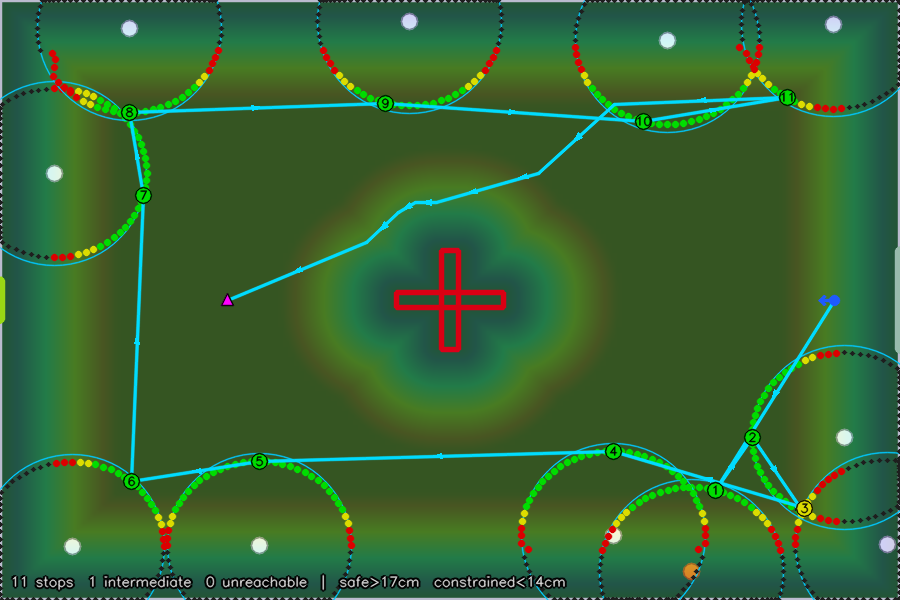
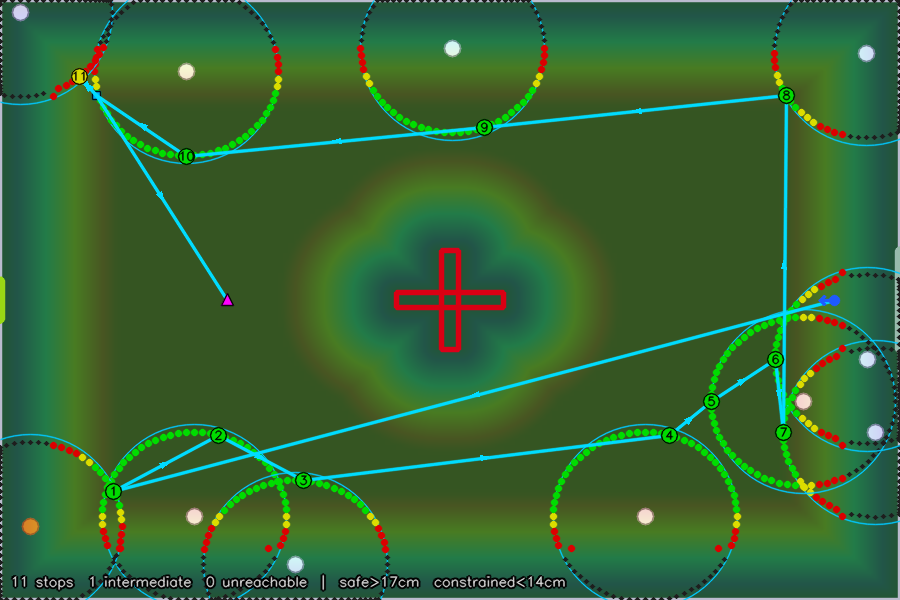
Fit check good

diff --git a/path/planner.py b/path/planner.py
@@ -12,8 +12,22 @@ from __future__ import annotations
 
 import heapq
 import math
+from enum import Enum
 
 import numpy as np
+
+
+class CompileStrategy(str, Enum):
+    """Path simplification strategy for the route compiler.
+
+    FULL    -- A* + Douglas-Peucker with collision-safe recursive splitting.
+               Preserves path shape; more intermediate waypoints.
+    MINIMAL -- A* + greedy farthest-visible-point simplification.
+               Fewest possible waypoints; better for stop-pivot-go guidance.
+    """
+
+    FULL = "full"
+    MINIMAL = "minimal"
 
 from config import FieldConfig
 from localization.models import RobotGeometry
@@ -249,6 +263,33 @@ def _safe_simplify(
     return left + right[1:]
 
 
+def _greedy_visibility_simplify(
+    blocked: np.ndarray,
+    path: list[tuple[int, int]],
+) -> list[tuple[int, int]]:
+    """Simplify a grid path by greedily jumping to the farthest visible point.
+
+    From the current point, scan backward from the end of the remaining path
+    to find the farthest point with a clear Bresenham line-of-sight.  Jump
+    there and repeat.  Produces the minimum number of waypoints where every
+    segment is guaranteed collision-free.
+    """
+    if len(path) <= 2:
+        return list(path)
+
+    result = [path[0]]
+    current = 0
+    while current < len(path) - 1:
+        farthest = current + 1
+        for j in range(len(path) - 1, current, -1):
+            if _bresenham_clear(blocked, *path[current], *path[j]):
+                farthest = j
+                break
+        result.append(path[farthest])
+        current = farthest
+    return result
+
+
 def _emit_astar_waypoints(
     blocked: np.ndarray,
     start_col: int,
@@ -257,6 +298,7 @@ def _emit_astar_waypoints(
     goal_row: int,
     field_height_cm: float,
     target_theta: float,
+    strategy: CompileStrategy = CompileStrategy.MINIMAL,
 ) -> list[RouteWaypoint]:
     """Run A*, simplify, and emit NAVIGATE waypoints between two grid cells.
 
@@ -267,8 +309,10 @@ def _emit_astar_waypoints(
     if grid_path is None or len(grid_path) <= 1:
         return []
 
-    # Simplify with collision-safe recursive splitting.
-    simplified = _safe_simplify(blocked, grid_path, epsilon=2.0)
+    if strategy == CompileStrategy.MINIMAL:
+        simplified = _greedy_visibility_simplify(blocked, grid_path)
+    else:
+        simplified = _safe_simplify(blocked, grid_path, epsilon=2.0)
 
     # Emit intermediate waypoints (skip first = current position, skip last
     # = the target itself which the caller emits with its own kind).
@@ -294,6 +338,7 @@ def compile_route(
     start_pose: HybridPose,
     half_width_cm: float,
     field_height_cm: float,
+    strategy: CompileStrategy = CompileStrategy.MINIMAL,
 ) -> RoutePlan:
     """Compile ordered route stops into a flat annotated waypoint sequence.
 
@@ -313,6 +358,9 @@ def compile_route(
         Robot half-width for body clearance (~9.75 cm).
     field_height_cm : float
         Field height for coordinate conversion.
+    strategy : CompileStrategy
+        Path simplification strategy.  MINIMAL (default) produces fewer
+        waypoints; FULL preserves more of the A* path shape.
 
     Returns
     -------
@@ -365,7 +413,7 @@ def compile_route(
             # Line blocked — insert A* detour waypoints.
             detour = _emit_astar_waypoints(
                 blocked, start_col, start_row, goal_col, goal_row,
-                field_height_cm, theta,
+                field_height_cm, theta, strategy=strategy,
             )
             waypoints.extend(detour)
 
@@ -394,6 +442,7 @@ def plan_route(
     geometry: RobotGeometry,
     field_config: FieldConfig,
     unload_position: tuple[float, float] | None = None,
+    compile_strategy: CompileStrategy = CompileStrategy.MINIMAL,
 ) -> RoutePlan:
     """Chain all three path layers to produce a ``RoutePlan``.
 
@@ -413,6 +462,8 @@ def plan_route(
         Field dimensions.
     unload_position : tuple[float, float] | None
         Staging position for unloading, or None to skip unload.
+    compile_strategy : CompileStrategy
+        Path simplification strategy passed to ``compile_route()``.
 
     Returns
     -------
@@ -446,6 +497,7 @@ def plan_route(
         start_pose=start_pose,
         half_width_cm=geometry.width_cm * 0.5,
         field_height_cm=field_config.height_cm,
+        strategy=compile_strategy,
     )
 
     return plan

diff --git a/path/tools/pickup_visualizer.py b/path/tools/pickup_visualizer.py
@@ -26,14 +26,14 @@ if str(REPO_ROOT) not in sys.path:
     sys.path.insert(0, str(REPO_ROOT))
 
 from config import AppConfig, FieldConfig
-from path.models import HybridPose, PlannedBallTarget, RoutePlan
+from path.models import HybridPose, PlannedBallTarget, RoutePlan, WaypointKind
 from path.pickup_geometry import (
     PickupCategory,
     PickupGeometryResult,
     compute_pickup_geometry,
     pickup_reach_cm,
 )
-from path.planner import compile_route
+from path.planner import CompileStrategy, compile_route
 from path.route_strategy import (
     NearestNeighborStrategy,
     RoutePlannerInput,
@@ -413,6 +413,7 @@ def _compute_and_render(
     geometry,
     seed: int,
     strategy_option: StrategyOption,
+    compile_strategy: CompileStrategy = CompileStrategy.MINIMAL,
 ) -> np.ndarray:
     """Generate a scenario, compute geometry + route, render, and print summary."""
     config = state.config
@@ -461,6 +462,7 @@ def _compute_and_render(
         start_pose=start,
         half_width_cm=geometry.width_cm * 0.5,
         field_height_cm=config.field.height_cm,
+        strategy=compile_strategy,
     )
 
     # Render
@@ -477,7 +479,7 @@ def _compute_and_render(
 
     # Print summary
     R = pickup_reach_cm(geometry)
-    print(f"\n--- seed={seed} strategy={strategy_option.key} ---")
+    print(f"\n--- seed={seed} strategy={strategy_option.key} compile={compile_strategy.value} ---")
     print(f"R = {R:.1f} cm  tank = {result.tank_turn_radius_cm:.1f} cm  "
           f"sweep = {result.tube_sweep_radius_cm:.1f} cm")
     print(f"Field: {config.field.width_cm} x {config.field.height_cm} cm")
@@ -507,6 +509,10 @@ def _compute_and_render(
         print(f"  Stop {i + 1}: #{ball.track_id} at ({stop.candidate.x_cm:.1f}, "
               f"{stop.candidate.y_cm:.1f}) [{cat}]{inter_str}")
 
+    # Compiled route summary
+    nav_count = sum(1 for w in route_plan.waypoints if w.kind == WaypointKind.NAVIGATE)
+    print(f"Compiled: {len(route_plan.waypoints)} waypoints ({nav_count} navigate)")
+
     return image
 
 
@@ -526,6 +532,12 @@ def main() -> int:
         default=STRATEGY_OPTIONS[0].key,
         help="Initial route strategy shown in the visualizer",
     )
+    parser.add_argument(
+        "--compile",
+        choices=["full", "minimal"],
+        default="minimal",
+        help="Initial compile strategy: 'full' (Douglas-Peucker) or 'minimal' (greedy visibility)",
+    )
     args = parser.parse_args()
 
     if args.mode == "camera":
@@ -542,10 +554,13 @@ def main() -> int:
         index for index, option in enumerate(STRATEGY_OPTIONS)
         if option.key == args.strategy
     )
+    compile_strategy = CompileStrategy(args.compile)
     image: np.ndarray | None = None
 
     cv2.namedWindow(WINDOW_NAME, cv2.WINDOW_NORMAL)
     cv2.resizeWindow(WINDOW_NAME, config.windows.schematic_width_px, config.windows.schematic_height_px)
+
+    HELP_TEXT = "Press 'r' to randomize, 'c' to toggle compile strategy, Esc/q to quit."
 
     def render_current() -> None:
         nonlocal image
@@ -555,11 +570,12 @@ def main() -> int:
             geometry,
             seed,
             STRATEGY_OPTIONS[strategy_index],
+            compile_strategy=compile_strategy,
         )
         cv2.imshow(WINDOW_NAME, image)
 
     render_current()
-    print("\nPress 'r' to randomize, Esc/q to quit.")
+    print(f"\n{HELP_TEXT}")
 
     while True:
         key = cv2.waitKey(50) & 0xFF
@@ -568,7 +584,14 @@ def main() -> int:
         if key == ord("r"):
             seed += 1
             render_current()
-            print("\nPress 'r' to randomize, Esc/q to quit.")
+            print(f"\n{HELP_TEXT}")
+        if key == ord("c"):
+            if compile_strategy == CompileStrategy.MINIMAL:
+                compile_strategy = CompileStrategy.FULL
+            else:
+                compile_strategy = CompileStrategy.MINIMAL
+            render_current()
+            print(f"\n{HELP_TEXT}")
 
     cv2.destroyAllWindows()
     return 0

diff --git a/test/test_route_collision.py b/test/test_route_collision.py
@@ -23,6 +23,7 @@ from path.pickup_geometry import (
     compute_pickup_geometry,
 )
 from path.planner import (
+    CompileStrategy,
     _bresenham_clear,
     _field_to_grid,
     _grid_astar,
@@ -558,3 +559,85 @@ class TestEdgeCases:
         start = HybridPose(x_cm=30.0, y_cm=30.0, theta_rad=0.0)
         plan = plan_route(grid, [], start, geometry, fc)
         assert len(plan.waypoints) == 0
+
+
+# ---------------------------------------------------------------------------
+# Tests: CompileStrategy.MINIMAL vs FULL
+# ---------------------------------------------------------------------------
+
+class TestCompileStrategyMinimal:
+    """Verify MINIMAL produces fewer waypoints while staying collision-free."""
+
+    @pytest.fixture
+    def setup(self):
+        grid = make_cross_obstacle_grid()
+        df = make_distance_field(grid)
+        blocked = make_blocked_grid(df)
+        fc = FieldConfig()
+        return df, blocked, fc
+
+    def _make_strategy_result(self, x_cm, y_cm, theta=0.0):
+        cand = PickupCandidate(
+            x_cm=x_cm, y_cm=y_cm, theta_rad=theta,
+            category=PickupCategory.SAFE,
+            obstacle_distance_cm=30.0,
+            ball_index=0,
+        )
+        stop = RouteStop(candidate=cand, intermediate_node=None, ball_index=0)
+        return RouteStrategyResult(
+            stops=(stop,), unreachable_balls=(), unload_position=None,
+        )
+
+    def test_minimal_is_collision_free(self, setup):
+        df, blocked, fc = setup
+        start = HybridPose(x_cm=30.0, y_cm=60.75, theta_rad=0.0)
+        strategy = self._make_strategy_result(130.0, 60.75)
+        plan = compile_route(
+            strategy, df, start, HALF_WIDTH_CM, fc.height_cm,
+            strategy=CompileStrategy.MINIMAL,
+        )
+        assert_route_avoids_cross(plan, blocked, fc.height_cm)
+
+    def test_minimal_fewer_waypoints_than_full(self, setup):
+        df, blocked, fc = setup
+        start = HybridPose(x_cm=30.0, y_cm=60.75, theta_rad=0.0)
+        strategy = self._make_strategy_result(130.0, 60.75)
+        plan_full = compile_route(
+            strategy, df, start, HALF_WIDTH_CM, fc.height_cm,
+            strategy=CompileStrategy.FULL,
+        )
+        plan_minimal = compile_route(
+            strategy, df, start, HALF_WIDTH_CM, fc.height_cm,
+            strategy=CompileStrategy.MINIMAL,
+        )
+        nav_full = [w for w in plan_full.waypoints if w.kind == WaypointKind.NAVIGATE]
+        nav_minimal = [w for w in plan_minimal.waypoints if w.kind == WaypointKind.NAVIGATE]
+        assert len(nav_minimal) <= len(nav_full)
+
+    def test_minimal_has_detour_across_cross(self, setup):
+        df, blocked, fc = setup
+        start = HybridPose(x_cm=30.0, y_cm=60.75, theta_rad=0.0)
+        strategy = self._make_strategy_result(130.0, 60.75)
+        plan = compile_route(
+            strategy, df, start, HALF_WIDTH_CM, fc.height_cm,
+            strategy=CompileStrategy.MINIMAL,
+        )
+        nav_wps = [w for w in plan.waypoints if w.kind == WaypointKind.NAVIGATE]
+        assert len(nav_wps) >= 1, "MINIMAL should still detour around cross"
+
+    def test_both_strategies_same_for_clear_path(self, setup):
+        df, blocked, fc = setup
+        start = HybridPose(x_cm=30.0, y_cm=30.0, theta_rad=0.0)
+        strategy = self._make_strategy_result(60.0, 30.0)
+        plan_full = compile_route(
+            strategy, df, start, HALF_WIDTH_CM, fc.height_cm,
+            strategy=CompileStrategy.FULL,
+        )
+        plan_minimal = compile_route(
+            strategy, df, start, HALF_WIDTH_CM, fc.height_cm,
+            strategy=CompileStrategy.MINIMAL,
+        )
+        nav_full = [w for w in plan_full.waypoints if w.kind == WaypointKind.NAVIGATE]
+        nav_minimal = [w for w in plan_minimal.waypoints if w.kind == WaypointKind.NAVIGATE]
+        assert len(nav_full) == 0
+        assert len(nav_minimal) == 0
